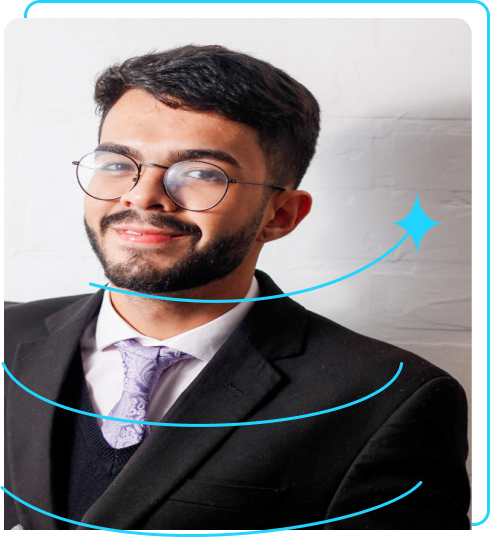
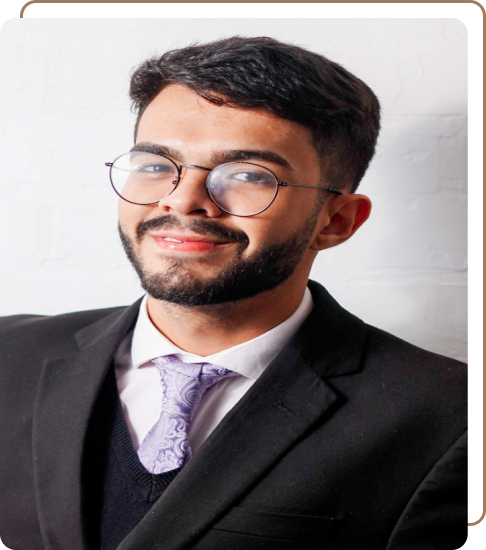
Atualização de Media querie

diff --git a/css/style.css b/css/style.css
@@ -15,9 +15,10 @@ body {
 }
 
 .cabecalho__lista {
+  width: 100%;
   display: flex;
   gap: 80px;
-  padding: 2% 0 0 15%;
+  padding: 2% 15%;
 }
 
 .cabecalho__item__lista {
@@ -28,6 +29,7 @@ body {
 }
 
 .apresentacao {
+  gap: 82px;
   padding: 4% 15%;
   display: flex;
   align-items: center;
@@ -35,7 +37,7 @@ body {
 }
 
 .apresentacao__conteudo {
-  width: 38.4rem;
+  width: 50%;
   display: flex;
   flex-direction: column;
   gap: 40px;
@@ -77,7 +79,7 @@ body {
   gap: 16px;
   border: 2px solid var(--cor-terciaria);
   text-align: center;
-  width: 378px;
+  width: 60%;
   padding: 21.5px 0px;
   border-radius: 8px;
   color: var(--cor-texto);
@@ -91,16 +93,17 @@ body {
   color: var(--cor-texto);
 }
 
-img {
-  width: 488px;
+.imagem__Principal {
+  width: 50%;
 }
 
-#icon__Instagram {
+.icones__Imagens {
   width: 32px;
   height: 32px;
 }
 
 .rodape {
+  width: 100%;
   font-family: "Montserrat", sans-serif;
   color: black;
   background-color: var(--cor-terciaria);
@@ -115,4 +118,21 @@ img {
 
 .estilo__Nome {
   color: var(--cor-texto);
+}
+
+@media (max-width: 1206px) {
+  .cabecalho__lista {
+    padding: 4% 0;
+    width: 100%;
+    justify-content: center;
+  }
+
+  .apresentacao {
+    flex-direction: column-reverse;
+    padding: 5%;
+  }
+
+  .apresentacao__conteudo {
+    width: 100%;
+  }
 }

diff --git a/index.html b/index.html
@@ -26,22 +26,22 @@
         <h2 class="apresentacao__links__titulo">Acesse minhas Redes Sociais </h2>
         <a target="_blank" class="botoesEstilo" href="https://www.instagram.com/dev.lopesx/">
 
-          <img src="./assets/instagram.png" alt="ìcone-Instagram" id="icon__Instagram">
+          <img src="./assets/instagram.png" alt="ìcone-Instagram" class="icones__Imagens">
           Instagram
 
         </a>
         <a target="_blank" class="botoesEstilo" href="https://github.com/dev-lopest">
-          <img src="./assets/github.png" alt="ìcone-Instagram" id="icon__Instagram">
+          <img src="./assets/github.png" alt="ìcone-Instagram" class="icones__Imagens">
           GithHub
         </a>
         <a target="_blank" class="botoesEstilo" href="https://github.com/dev-lopest">
-          <img src="./assets/linkedin (1).png" alt="ìcone-Instagram" id="icon__Instagram">
+          <img src="./assets/linkedin (1).png" alt="ìcone-Instagram" class="icones__Imagens">
           Linkedin
 
         </a>
       </div>
     </section>
-    <img src="./assets/Imagem.png" alt="Foto de Perfil Thiago Lopes">
+    <img src="./assets/Imagem.png" alt="Foto de Perfil Thiago Lopes" class="imagem__Principal">
   </main>
 
   <footer class="rodape">
